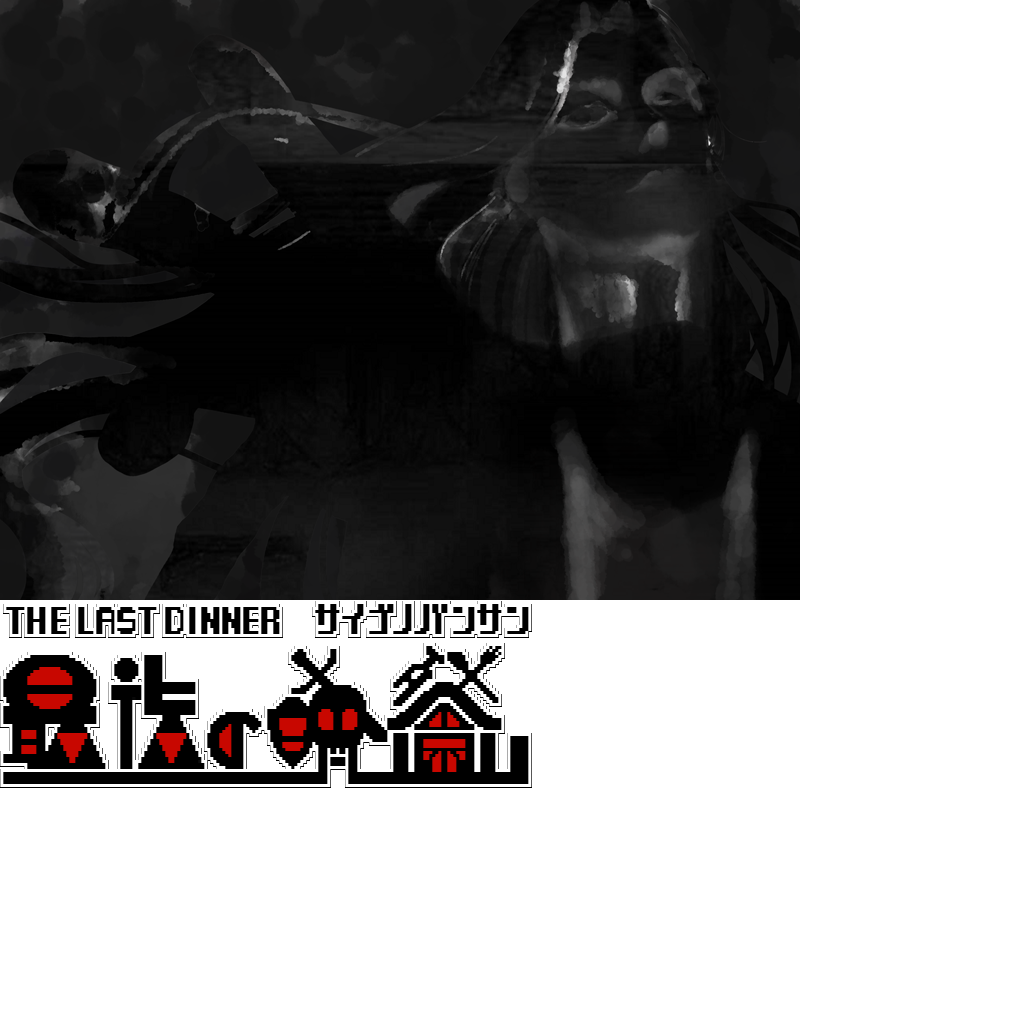
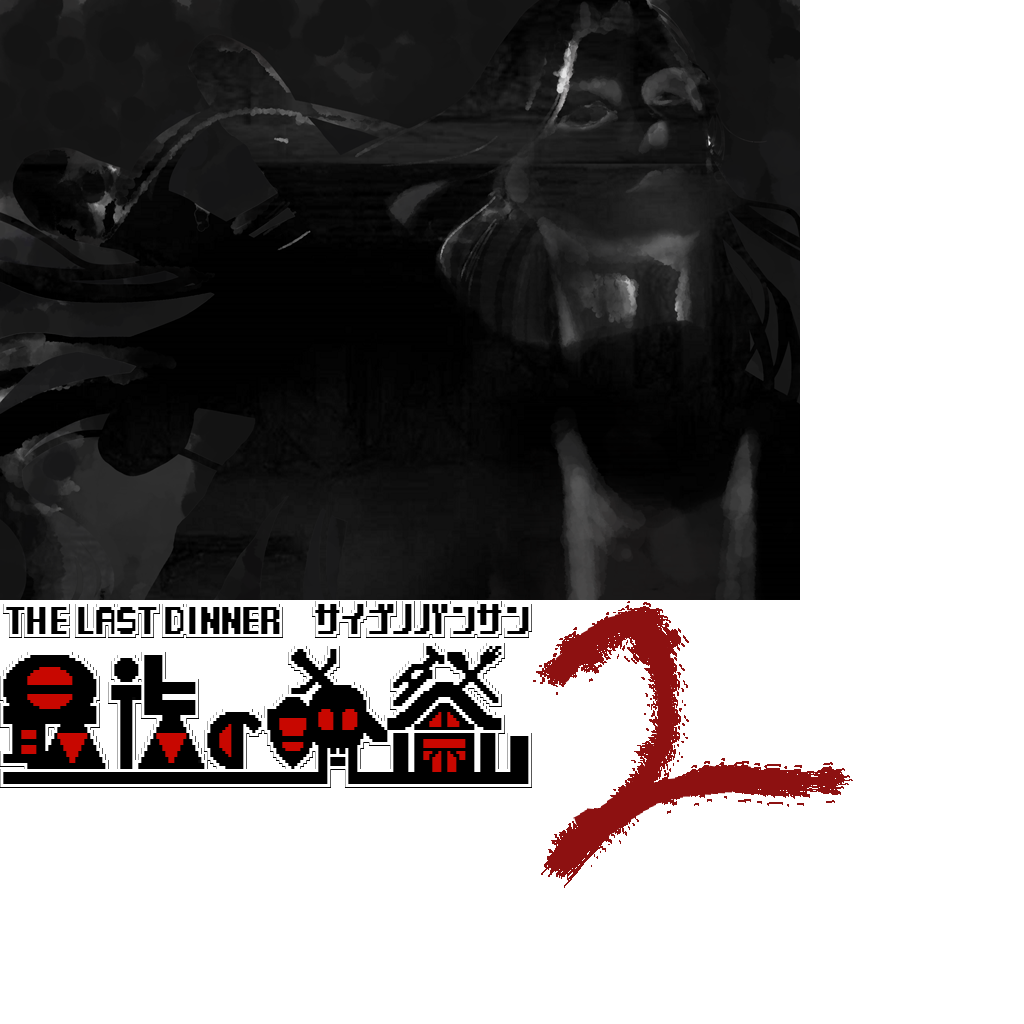
タイトルメニューのタイトル調整

Changed region(s): [[0.5312, 0.5938, 0.8438, 0.875]]

diff --git a/Classes/Layers/Menu/TitleMainMenuLayer.cpp b/Classes/Layers/Menu/TitleMainMenuLayer.cpp
@@ -66,11 +66,20 @@ bool TitleMainMenuLayer::init()
     title2->setColor(Color3B::WHITE);
     this->addChild(title2);
     
-    Label* title3 {Label::createWithTTF("隻眼の少女2", Resource::Font::SYSTEM, font_size)};
+    Label* title3 {Label::createWithTTF("隻眼の少女", Resource::Font::SYSTEM, font_size)};
     title3->setPosition(WINDOW_WIDTH/2, title2->getPosition().y - title3->getContentSize().height);
     title3->setColor(Color3B::Color3B(200,0,0));
     title3->setOpacity(0);
     this->addChild(title3);
+    
+    float titleNumberScale {0.33};
+    Sprite* titleNumber {Sprite::createWithSpriteFrameName("title_2.png")};
+    titleNumber->setPosition(
+        WINDOW_WIDTH/2 + title3->getContentSize().width/2 + titleNumber->getContentSize().width * titleNumberScale / 5,
+        title2->getPosition().y - title3->getContentSize().height
+    );
+    titleNumber->setOpacity(0);
+    this->addChild(titleNumber);
     
     // タイトルメニューを生成
 	int menuSize = 44.f;
@@ -92,11 +101,16 @@ bool TitleMainMenuLayer::init()
     this->runAction(Sequence::createWithTwoActions(DelayTime::create(duration + latency * etoi(MenuType::SIZE)), CallFunc::create(CC_CALLBACK_0(TitleMainMenuLayer::onEnterAnimationFinished, this))));
 	
     this->runAction(Sequence::create(
-                                     TargetedAction::create(title1, FadeIn::create(1.f)),
-                                     TargetedAction::create(title2,FadeTo::create(1.f, 200)),
-                                     TargetedAction::create(title3,FadeIn::create(1.f)),
-                                    nullptr
-                    ));
+        TargetedAction::create(title1, FadeIn::create(0.8f)),
+        TargetedAction::create(title2, FadeTo::create(0.8f, 200)),
+        TargetedAction::create(title3, FadeIn::create(0.8f)),
+        Spawn::create(
+            TargetedAction::create(titleNumber, FadeIn::create(0.8f)),
+            TargetedAction::create(titleNumber, EaseCubicActionOut::create(ScaleTo::create(0.6f, titleNumberScale))),
+            nullptr
+        ),
+        nullptr
+    ));
     
     // copyright
     Label* copyright {Label::createWithTTF("Copyright (C) 2014-2016 最後の晩餐 All Rights Reserved.", Resource::Font::MESSAGE, 16)};
